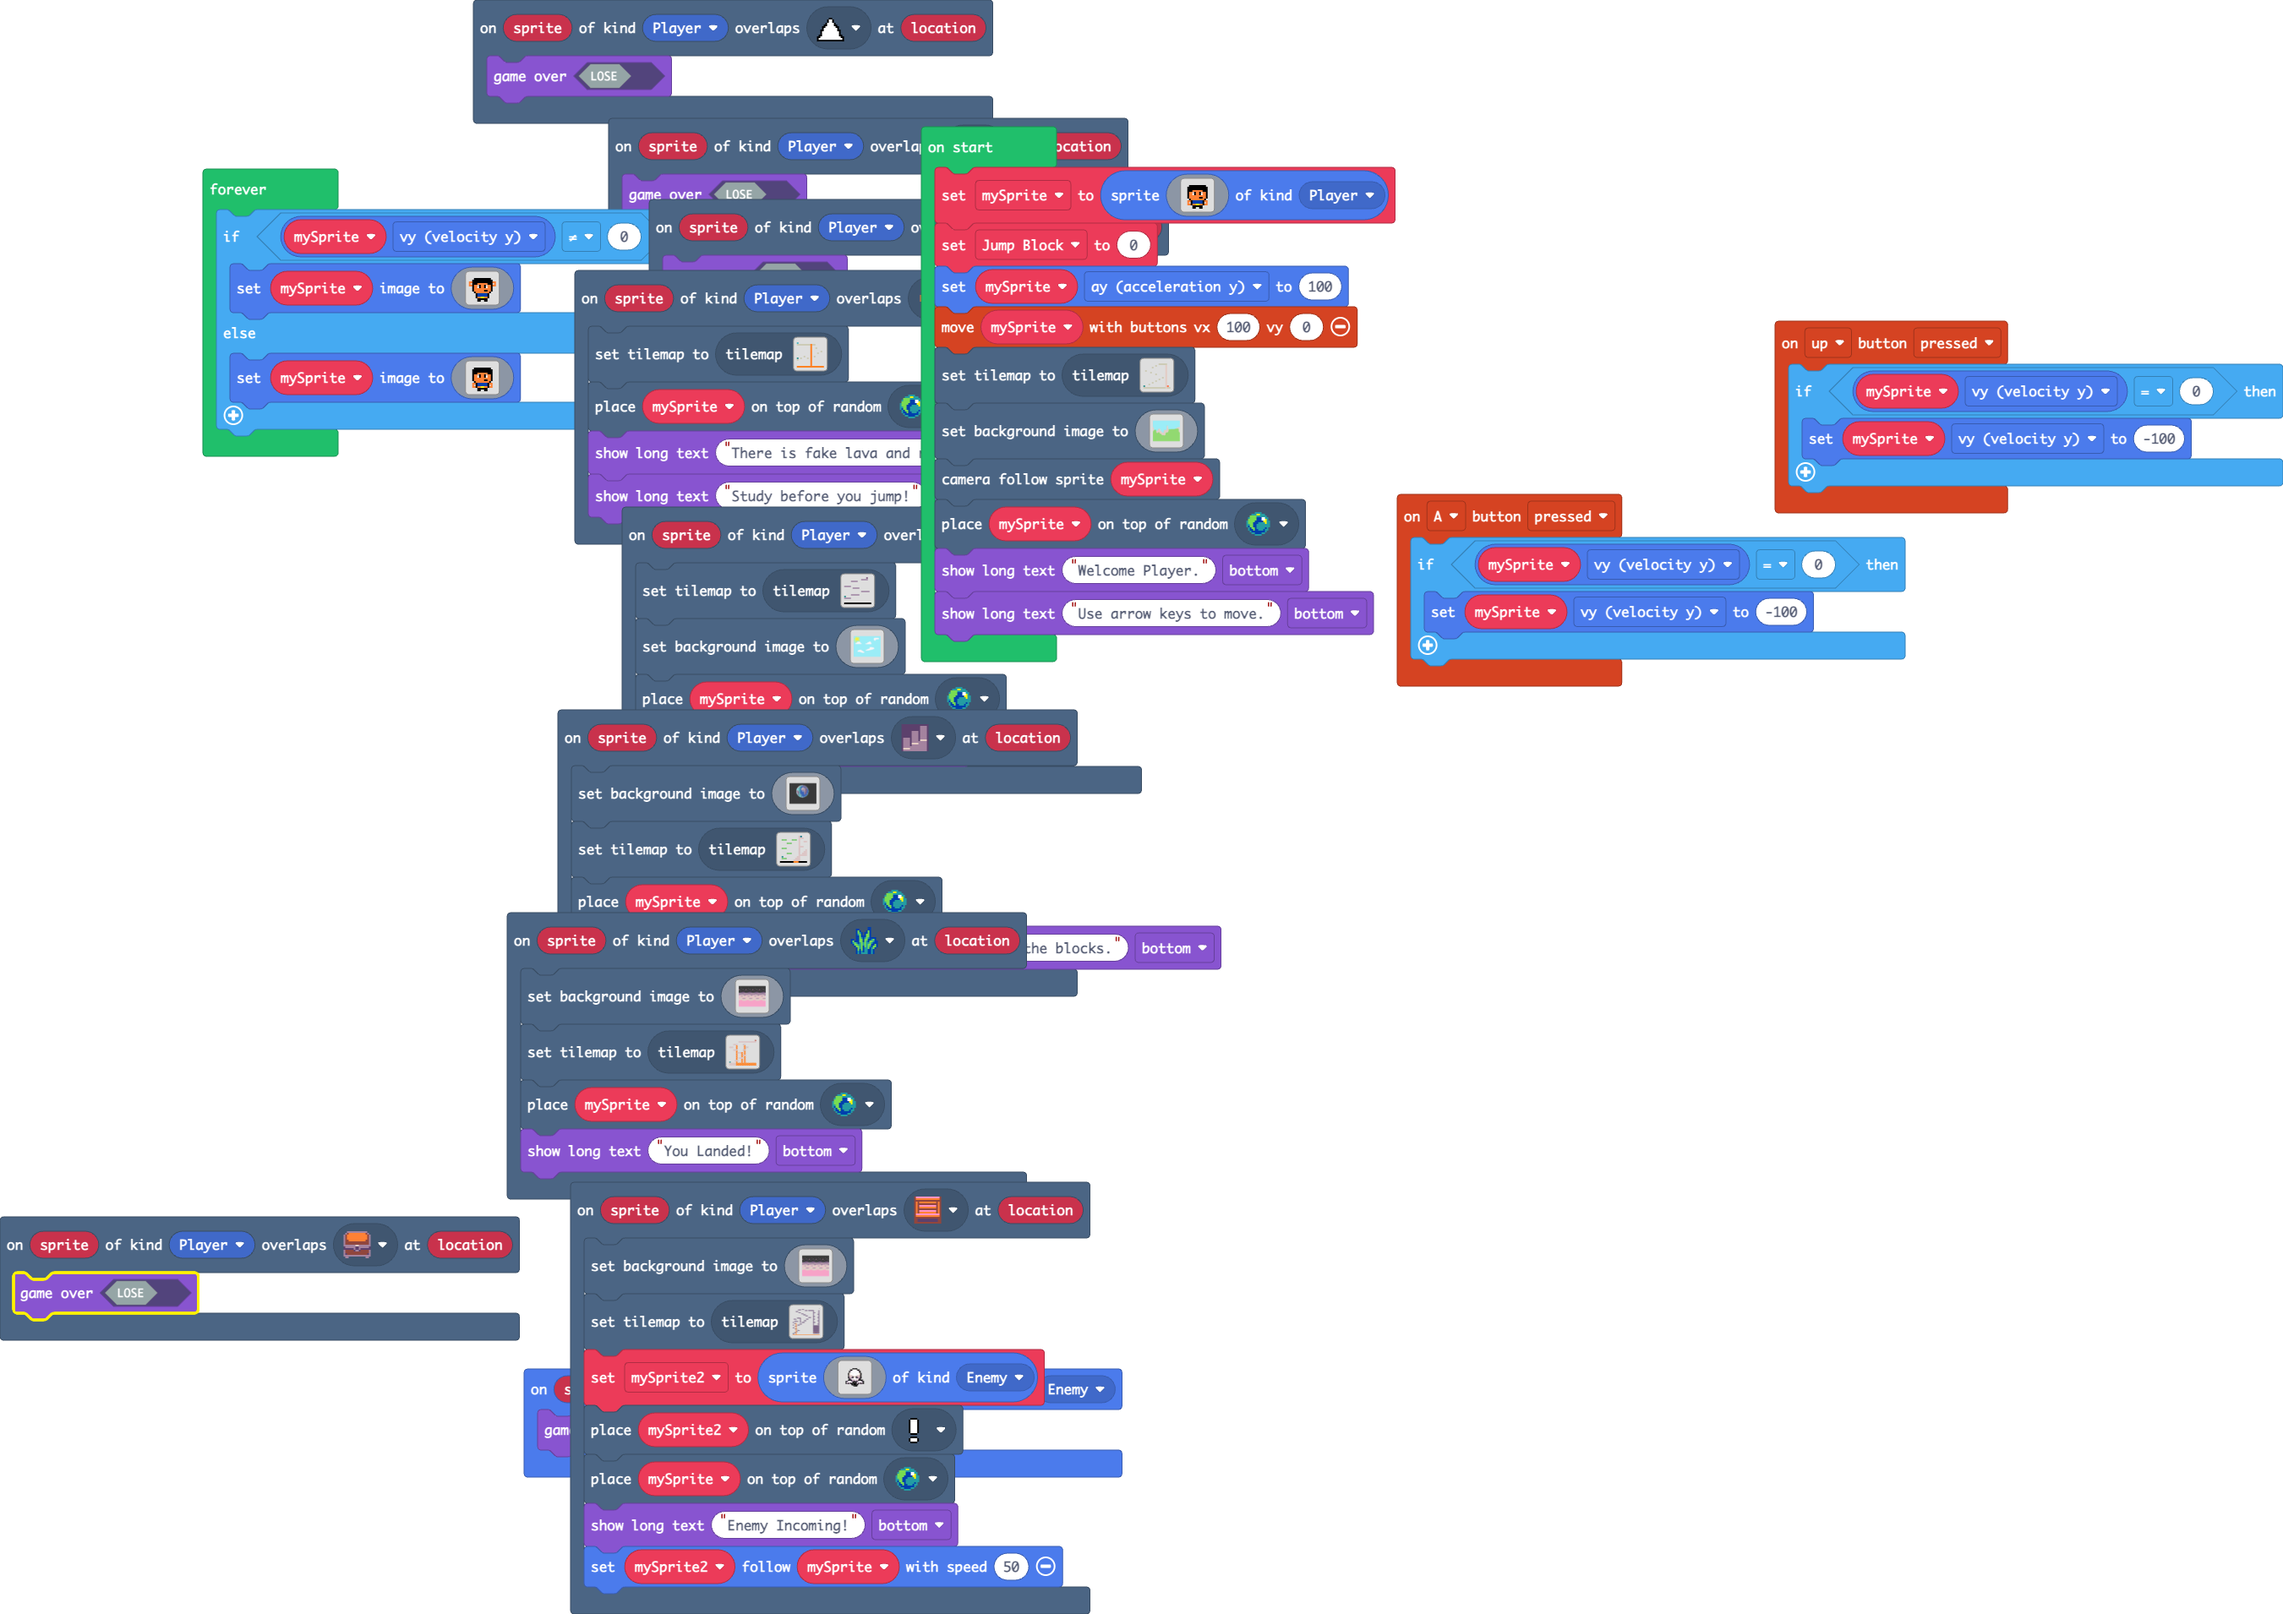
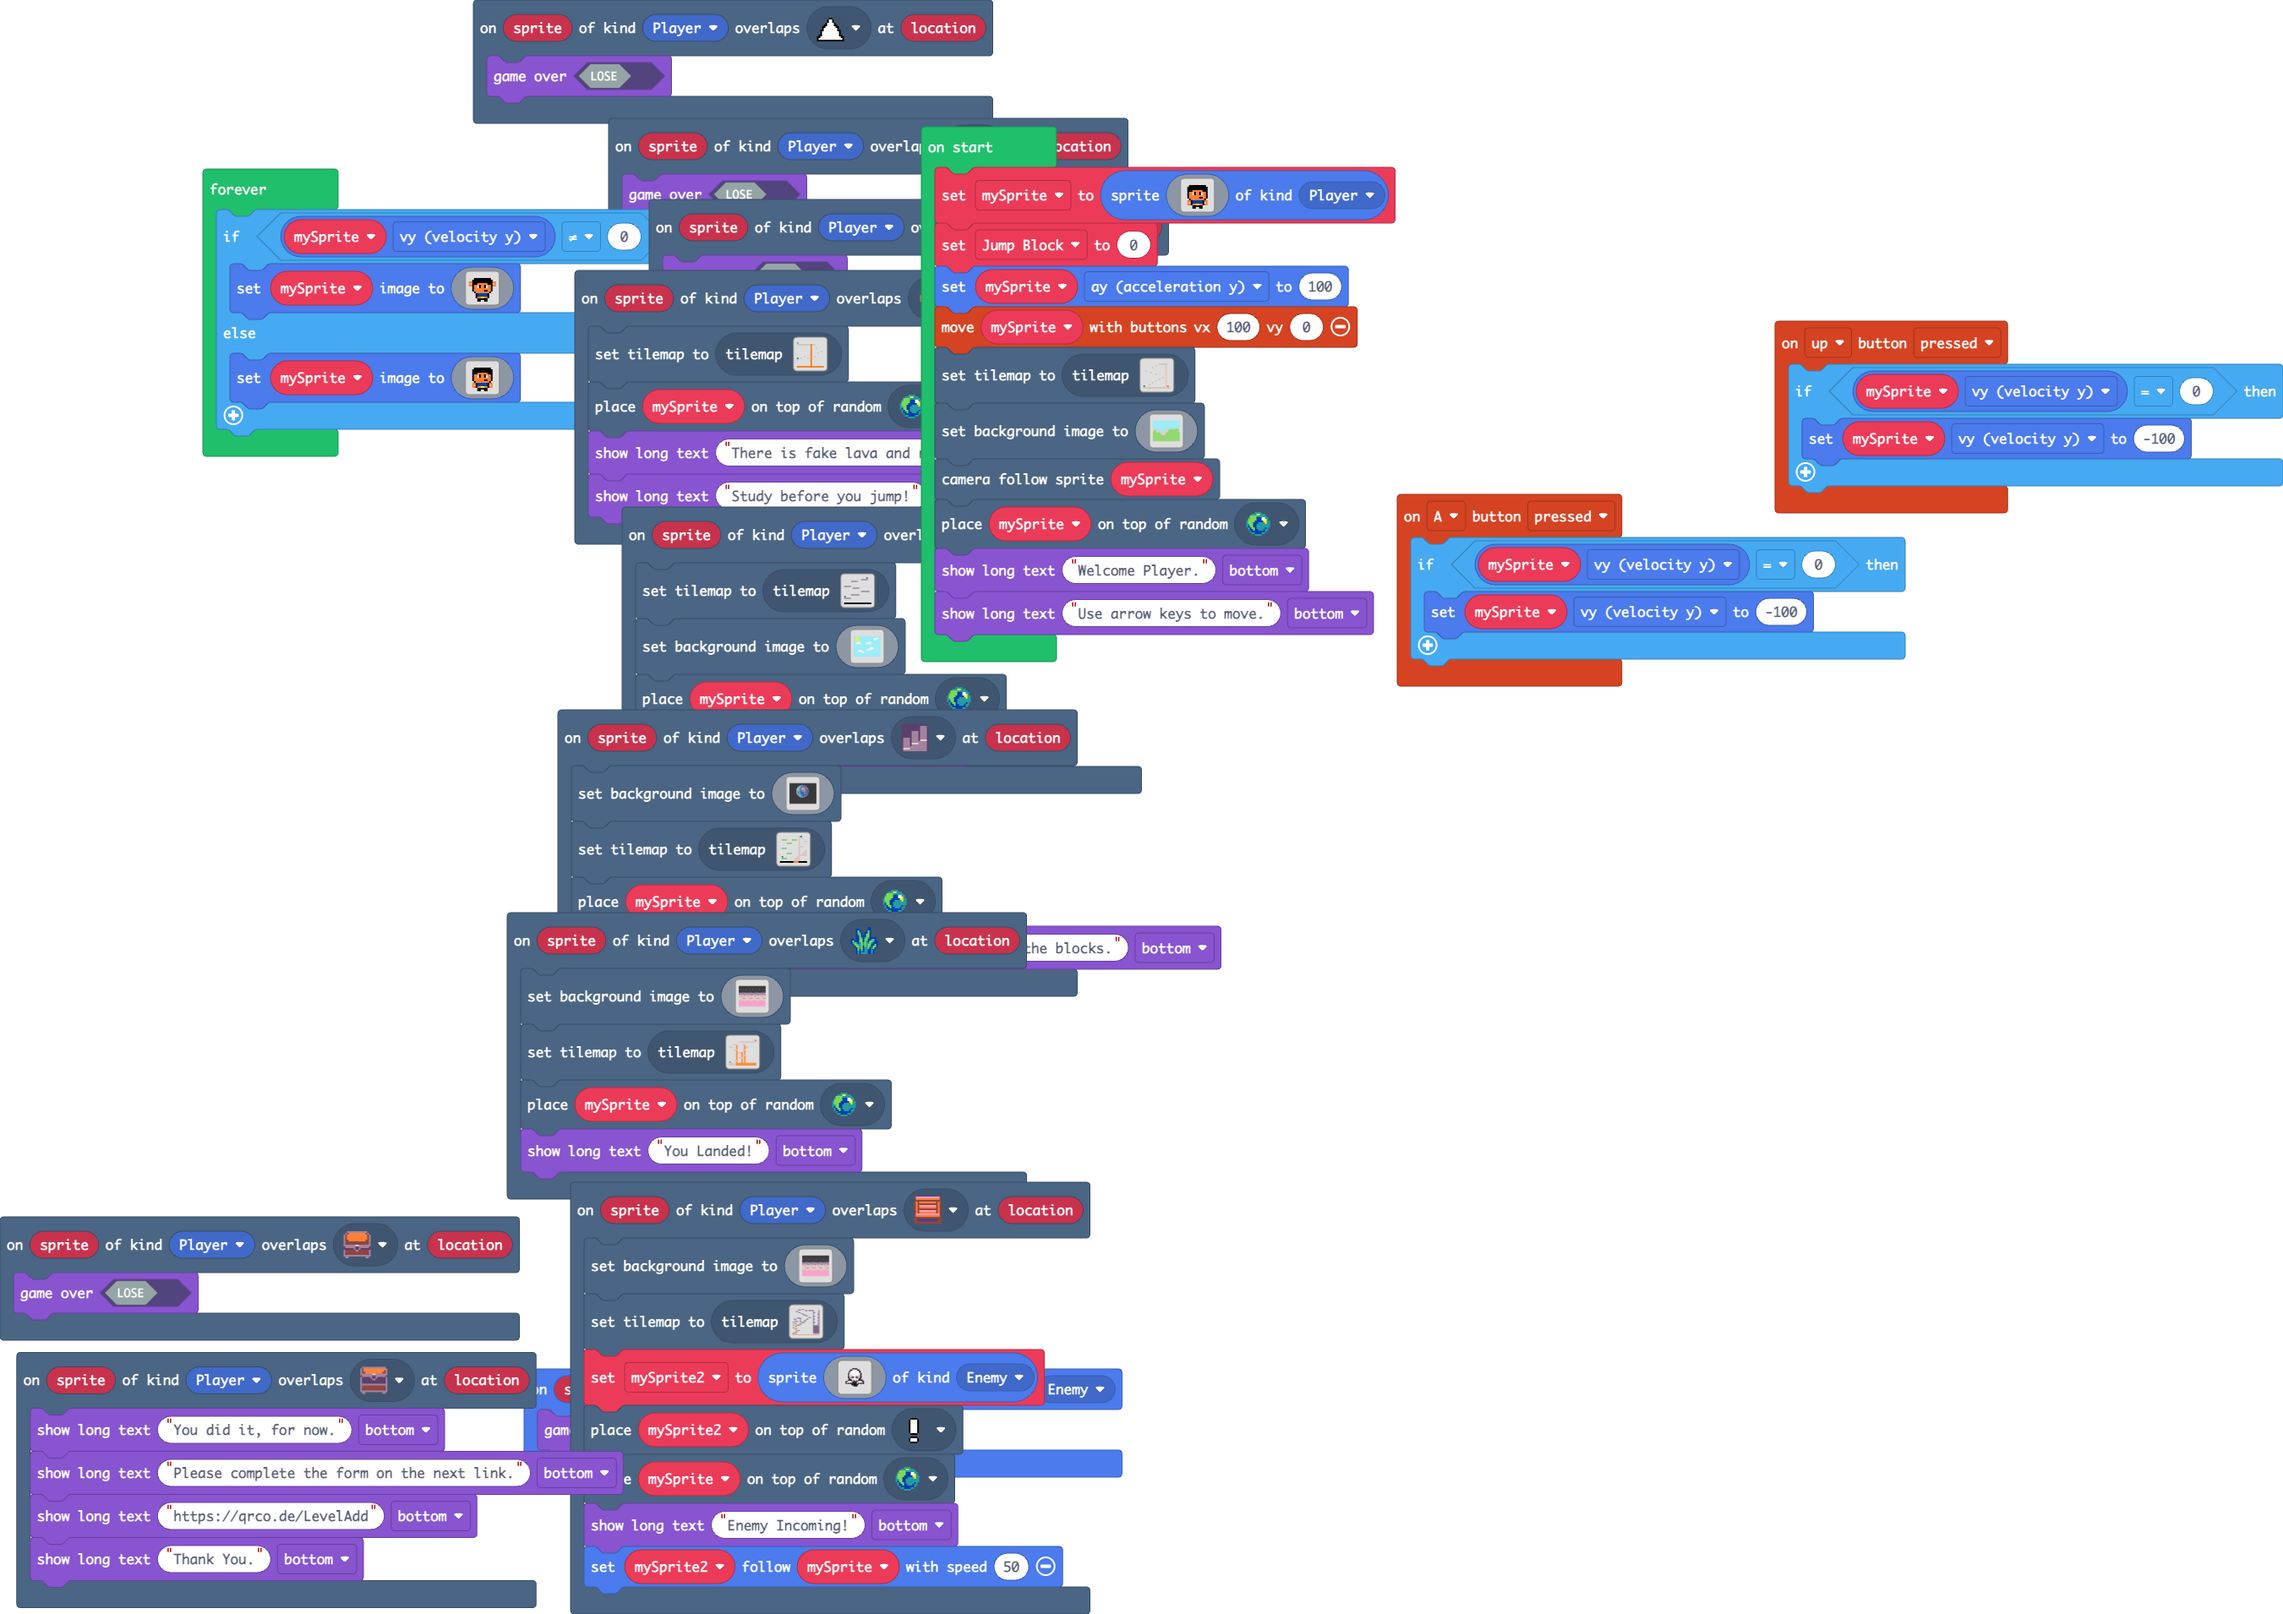
Update main.blocks, main.ts

Changed region(s): [[0.0, 0.834, 0.2799, 1.0]]

diff --git a/main.ts b/main.ts
@@ -435,6 +435,12 @@ scene.onOverlapTile(SpriteKind.Player, sprites.dungeon.stairLarge, function (spr
     tiles.placeOnRandomTile(mySprite, sprites.dungeon.collectibleBlueCrystal)
     game.showLongText("The rocket is there. Pay attention to the blocks.", DialogLayout.Bottom)
 })
+scene.onOverlapTile(SpriteKind.Player, sprites.dungeon.chestOpen, function (sprite, location) {
+    game.showLongText("You did it, for now.", DialogLayout.Bottom)
+    game.showLongText("Please complete the form on the next link.", DialogLayout.Bottom)
+    game.showLongText("https://qrco.de/LevelAdd", DialogLayout.Bottom)
+    game.showLongText("Thank You.", DialogLayout.Bottom)
+})
 scene.onOverlapTile(SpriteKind.Player, sprites.dungeon.collectibleInsignia, function (sprite, location) {
     tiles.setCurrentTilemap(tilemap`level8`)
     scene.setBackgroundImage(img`
